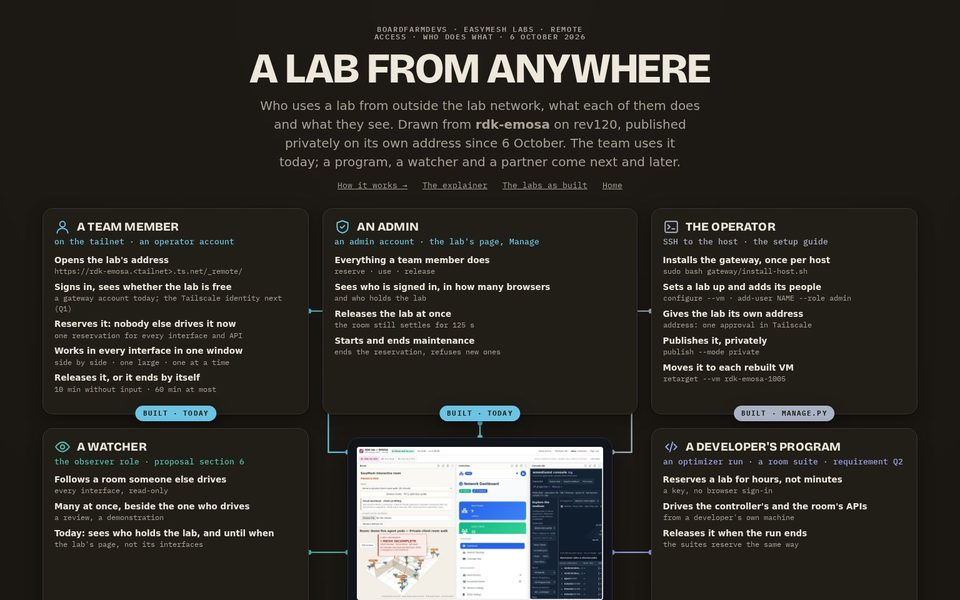
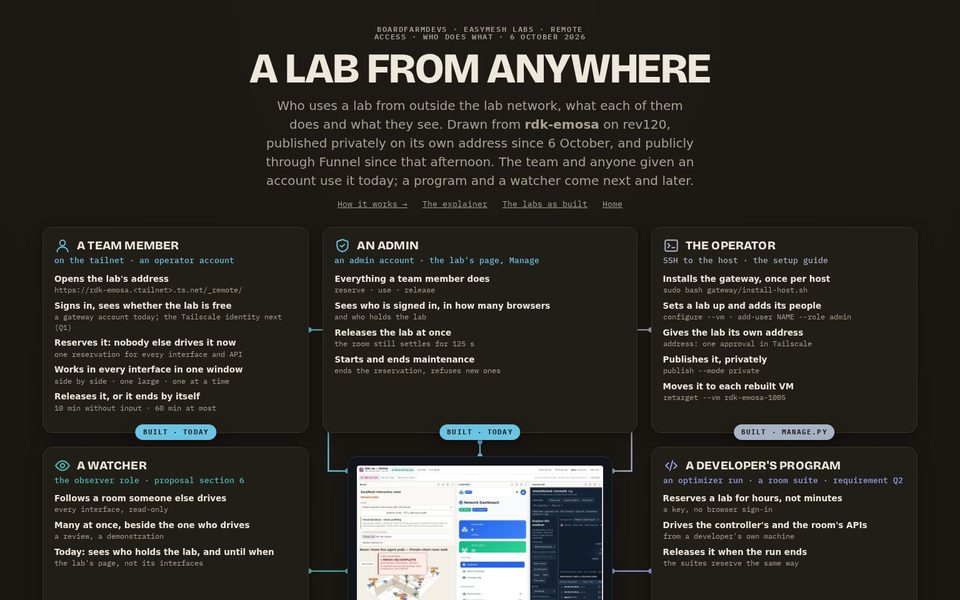
rdk-emosa public through Funnel: requirement Q5 changed at the owner's word, checked from outside the tailnet
publish --mode public --confirm-public --keep-lan-open on rev120, with the test
accounts gone and rob's password changed. Public DNS had the name about 18
minutes later. From rev140, outside the tailnet: valid certificates on 443,
8443 and 10000; 423 on every interface for an anonymous visitor; sign-in, a
reservation and the three interfaces for an account (a temporary one, removed
after); nothing else of the host behind the public address (its port 80 is
Tailscale's relay redirecting to HTTPS). The proposal, the guide, the endpoint
reference and both posters follow.

diff --git a/site/posters/flow.html b/site/posters/flow.html
@@ -32,7 +32,8 @@
     on the host as <code>192.168.2.120:22010/1/2</code>.</p></div>
     <div class="host"><h3>rdk-emosa.&lt;tailnet&gt;.ts.net</h3><p>The lab's own address since
     6 October: a Tailscale device of the lab's, on the host, kept across rebuilds. Ports
-    <code>443</code>, <code>8443</code>, <code>10000</code>; nothing else answers on it.</p></div>
+    <code>443</code>, <code>8443</code>, <code>10000</code>; nothing else answers on it. Public
+    through Funnel since that afternoon.</p></div>
     <div class="host"><h3>easymesh-remote</h3><p>The code: <code>gateway/</code>
     (<code>gateway.py</code>, <code>manage.py</code>, the page, the units), its tests, the setup
     guide and the proposal with the requirements of 6 October.</p></div>
@@ -62,7 +63,7 @@
         <text class="b" x="32" y="284">the lab's page</text>
         <text class="t" x="32" y="304">every interface, one window</text>
         <text class="t" x="32" y="324">on the tailnet, or a shared</text>
-        <text class="t" x="32" y="342">lab device; Funnel later</text>
+        <text class="t" x="32" y="342">device; or public (Funnel)</text>
       </g>
 
       <!-- tailscale -->
@@ -73,7 +74,7 @@
         <rect class="chip" x="316" y="108" width="168" height="34" rx="8"/>
         <text class="ct" x="328" y="130">Serve · private</text>
         <rect class="chip" x="316" y="150" width="168" height="34" rx="8"/>
-        <text class="ct" x="328" y="172">Funnel · later</text>
+        <text class="ct" x="328" y="172">Funnel · public</text>
         <text class="t" x="316" y="226">HTTPS, a certificate</text>
         <text class="t" x="316" y="244">for each lab's name</text>
         <text class="t" x="316" y="270">no port forwarded</text>
@@ -311,6 +312,7 @@
         <li class="remote">The lab's page<small>the welcome with the lab card, every interface in one window, operators and admins</small></li>
         <li class="optimizer">The lab's own address<small>a Tailscale device per lab on its host; Tailscale Services would need a tagged host, Tailscale in the VM would expose the VM</small></li>
         <li class="umbrella">The requirements confirmed<small>the team first, programs soon, the lab network trusted, <code>retarget</code> after each rebuild, no public access yet</small></li>
+        <li class="optimizer">Public through Funnel (6 October)<small>at the owner's word (Q5 changed); the LAN kept open; checked from outside the tailnet: the sign-in, 423 for anyone else, nothing else of the host</small></li>
         <li class="rdk">rdk-emosa moved to its rebuild<small><code>retarget --vm rdk-emosa-1005</code>: the same address, accounts and state; 1002 stopped</small></li>
       </ul>
     </div>
@@ -321,7 +323,6 @@
         <li class="open">Programs and suites<small>step 6: keys, reservations of hours, the suites' reservation in place of maintenance</small></li>
         <li class="open">The builds run <code>retarget</code><small>rdk-emosa moved from 1002 to 1005 by hand on 6 October; a lab's build should do it</small></li>
         <li class="open">The other labs<small>step 7: prplMesh and OpenSync + EMOSA name their interfaces differently</small></li>
-        <li class="open">Funnel never tried<small>no public access until a partner asks (Q5)</small></li>
         <li class="open">The RDK lab's old copy of the gateway<small>still in meta-cmf-bananapi-vcpe, with every bug above</small></li>
       </ul>
     </div>

diff --git a/site/posters/people.html b/site/posters/people.html
@@ -18,7 +18,8 @@
     <h1>A lab from anywhere</h1>
     <p>Who uses a lab from outside the lab network, what each of them does and what they see.
     Drawn from <b>rdk-emosa</b> on rev120, published privately on its own address since
-    6 October. The team uses it today; a program, a watcher and a partner come next and later.</p>
+    6 October, and publicly through Funnel since that afternoon. The team and anyone given an
+    account use it today; a program and a watcher come next and later.</p>
     <nav><a href="flow.html">How it works →</a> <a href="../index.html">The explainer</a> <a href="https://mesh.vcpe.dev/posters/labs.html">The labs as built</a> <a href="https://mesh.vcpe.dev/">Home</a></nav>
   </header>
 
@@ -106,13 +107,13 @@
 
     <article class="card builder g">
       <h2><svg viewBox="0 0 24 24" fill="none" stroke="currentColor" stroke-width="1.8" stroke-linecap="round"><circle cx="12" cy="12" r="9"/><path d="M3 12h18M12 3c3 3 3 15 0 18M12 3c-3 3-3 15 0 18"/></svg>A partner</h2>
-      <p class="repo">outside the tailnet · requirements Q1, Q5</p>
+      <p class="repo">outside the tailnet · Funnel, or a shared device</p>
       <ul class="rows">
         <li><b>Does what a team member does</b><code>a gateway account of their own</code></li>
         <li><b>Gets in by a shared lab device</b><code>sharing one device shares one lab</code></li>
-        <li><b>Or by Funnel, with no Tailscale at all</b><code>not until a partner asks</code></li>
+        <li><b>Or by Funnel, with no Tailscale at all</b><code>public since 6 October</code></li>
       </ul>
-      <span class="pill">Later</span>
+      <span class="pill">Possible · Funnel</span>
     </article>
 
     <article class="card phys h">
@@ -219,7 +220,7 @@
             <tr><td style="white-space:nowrap"><b>Q2</b></td><td>What do they do?</td><td>click through the interfaces now; run their own code against a lab soon</td></tr>
             <tr><td style="white-space:nowrap"><b>Q3</b></td><td>Is the lab network trusted?</td><td>yes: closed only for a public lab</td></tr>
             <tr><td style="white-space:nowrap"><b>Q4</b></td><td>After a rebuild, which VM is the lab?</td><td>the newest accepted one, by <code>retarget</code></td></tr>
-            <tr><td style="white-space:nowrap"><b>Q5</b></td><td>Public access?</td><td>not until a partner asks</td></tr>
+            <tr><td style="white-space:nowrap"><b>Q5</b></td><td>Public access?</td><td>public through Funnel since 6 October, the LAN kept open</td></tr>
           </tbody>
         </table>
       </div>

diff --git a/docs/proposals/remote-labs.md b/docs/proposals/remote-labs.md
@@ -33,7 +33,7 @@ same way, and one lab has a working gateway. No step here replaces either.
 | Q2 | What do they do? | click through the interfaces now; run their own code against a lab soon (optimizer development) | programs get keys and reservations of hours; this comes before the directory across labs |
 | Q3 | Is the lab network trusted? | yes | a lab's ports close to the LAN only when it is public (or on request); local tools and suites take the reservation like everyone else |
 | Q4 | After a rebuild, which VM is the lab? | the configuration's newest accepted VM | the gateway moves to it with one command (`retarget`), ideally run by the lab's build; the lab keeps its address, accounts and state |
-| Q5 | Public access? | not until a partner asks | Funnel stays supported and untested |
+| Q5 | Public access? | not until a partner asks; **changed 6 October**: public at the owner's word | `rdk-emosa` public through Funnel since 6 October, its LAN ports kept open (`--keep-lan-open`) while local work goes on; the gateway's sign-in is the only lock, so only named accounts with strong passwords |
 
 ### Who does what
 
@@ -44,7 +44,7 @@ same way, and one lab has a working gateway. No step here replaces either.
 | An operator on the host | installs the gateway, gives a lab its address, adds people, publishes, moves the lab to a rebuilt VM, runs local work under maintenance | `manage.py` over SSH | built (`retarget` 6 October) |
 | A developer's program | reserves a lab for hours and drives its APIs | a key | Q2: next |
 | A watcher | follows a room someone else drives | the lab's page, read-only | observer role: later |
-| A partner | the same as a team member, from outside the tailnet | a shared lab device, or Funnel | Q1, Q5: later |
+| A partner | the same as a team member, from outside the tailnet | Funnel (a browser and an account), or a shared lab device | possible since 6 October: an admin adds the account on the host |
 
 ## 2. What exists
 

diff --git a/docs/reference/lab-endpoints.md b/docs/reference/lab-endpoints.md
@@ -152,3 +152,9 @@ cannot be reserved as the code stands.
   `retarget --vm rdk-emosa-1005` (host ports 22010 to 22012, the VM at `10.77.171.250`), its
   address, accounts and state unchanged. Checked over the tailnet: the three interfaces of
   1005 side by side, the lab card showing the new VM and its build date.
+- rev120, 6 October afternoon: `rdk-emosa` public through Funnel (`publish --mode public
+  --confirm-public --keep-lan-open`), its LAN ports open. Public DNS had the name about
+  18 minutes after publication. Checked from rev140, outside the tailnet: valid certificates on
+  443, 8443 and 10000; 423 on every interface for an anonymous visitor; sign-in, a reservation
+  and the three interfaces for an account; no other port of the host behind the address (port
+  80 is Tailscale's relay, redirecting to HTTPS).

diff --git a/docs/guides/setup.md b/docs/guides/setup.md
@@ -137,7 +137,8 @@ sudo "$REMOTE" --lab "$LAB" publish --mode public --confirm-public
 sudo tailscale funnel status
 ```
 
-Follow Tailscale's additional Funnel consent/policy flow. Only the gateway is
+Follow Tailscale's additional Funnel consent/policy flow. The public DNS name can take
+longer than Tailscale's ten minutes: on rev120 it appeared after about 18. Only the gateway is
 exposed, including its login page. An anonymous visitor cannot read topology,
 telemetry or use controls. There is no spectator or read-only role yet: every
 account can reserve the lab and drive it.
